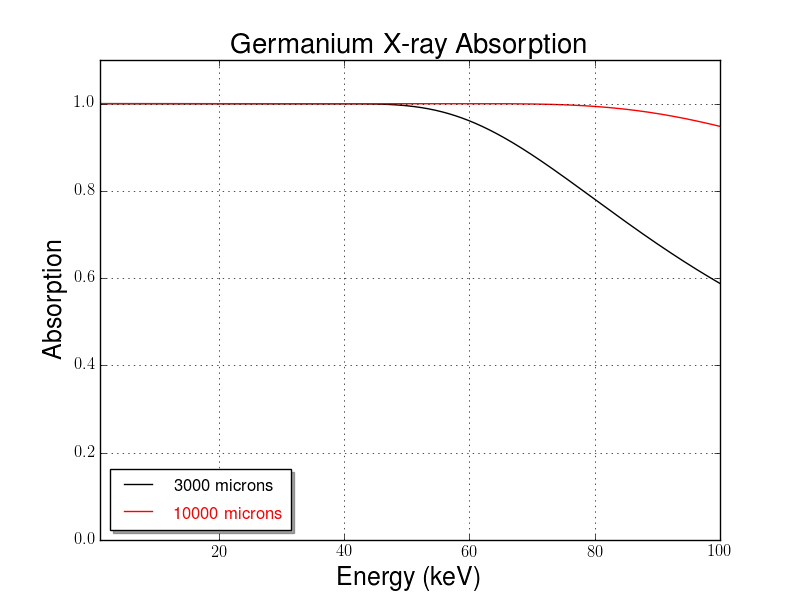
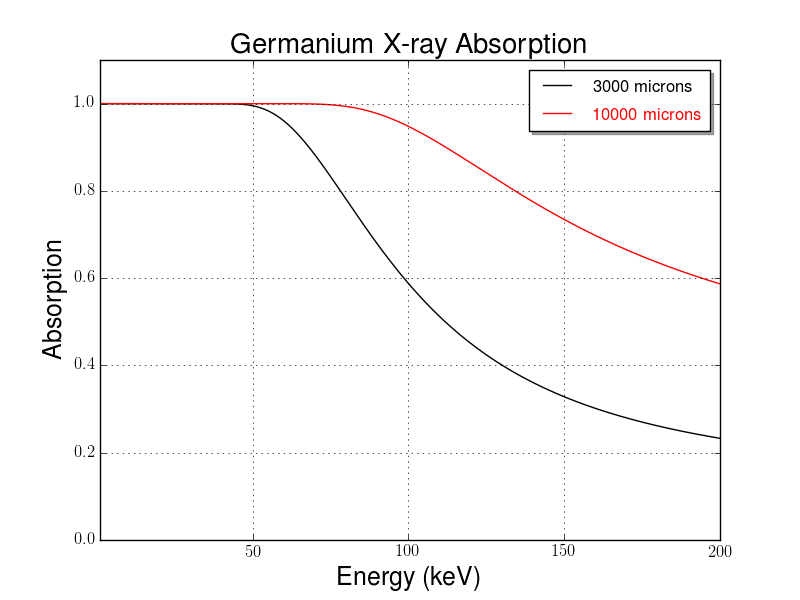
increased plots to 200 keV
increased plots to 200 keV

diff --git a/Ge-xray-absorption.py b/Ge-xray-absorption.py
@@ -47,7 +47,7 @@ Ge_Z = 32
 Ge_atomic_wt =  72.5899963
 Ge_density =  5.32299995
 
-energy = linspace(1,100,10000)
+energy = linspace(1,200,20000)
 
 Ge_attenuation_len_3mm = []
 Ge_absorption_3mm = []
@@ -72,7 +72,7 @@ for e in energy:
 
 figure()
 plot(energy,Ge_absorption_3mm,'k-', energy,Ge_absorption_10mm,'r-')
-xlim(1,100)
+xlim(1,200)
 ylim(0.0,1.1)
 xlabel('Energy (keV)', fontsize = 18)
 ylabel('Absorption', fontsize = 18)
